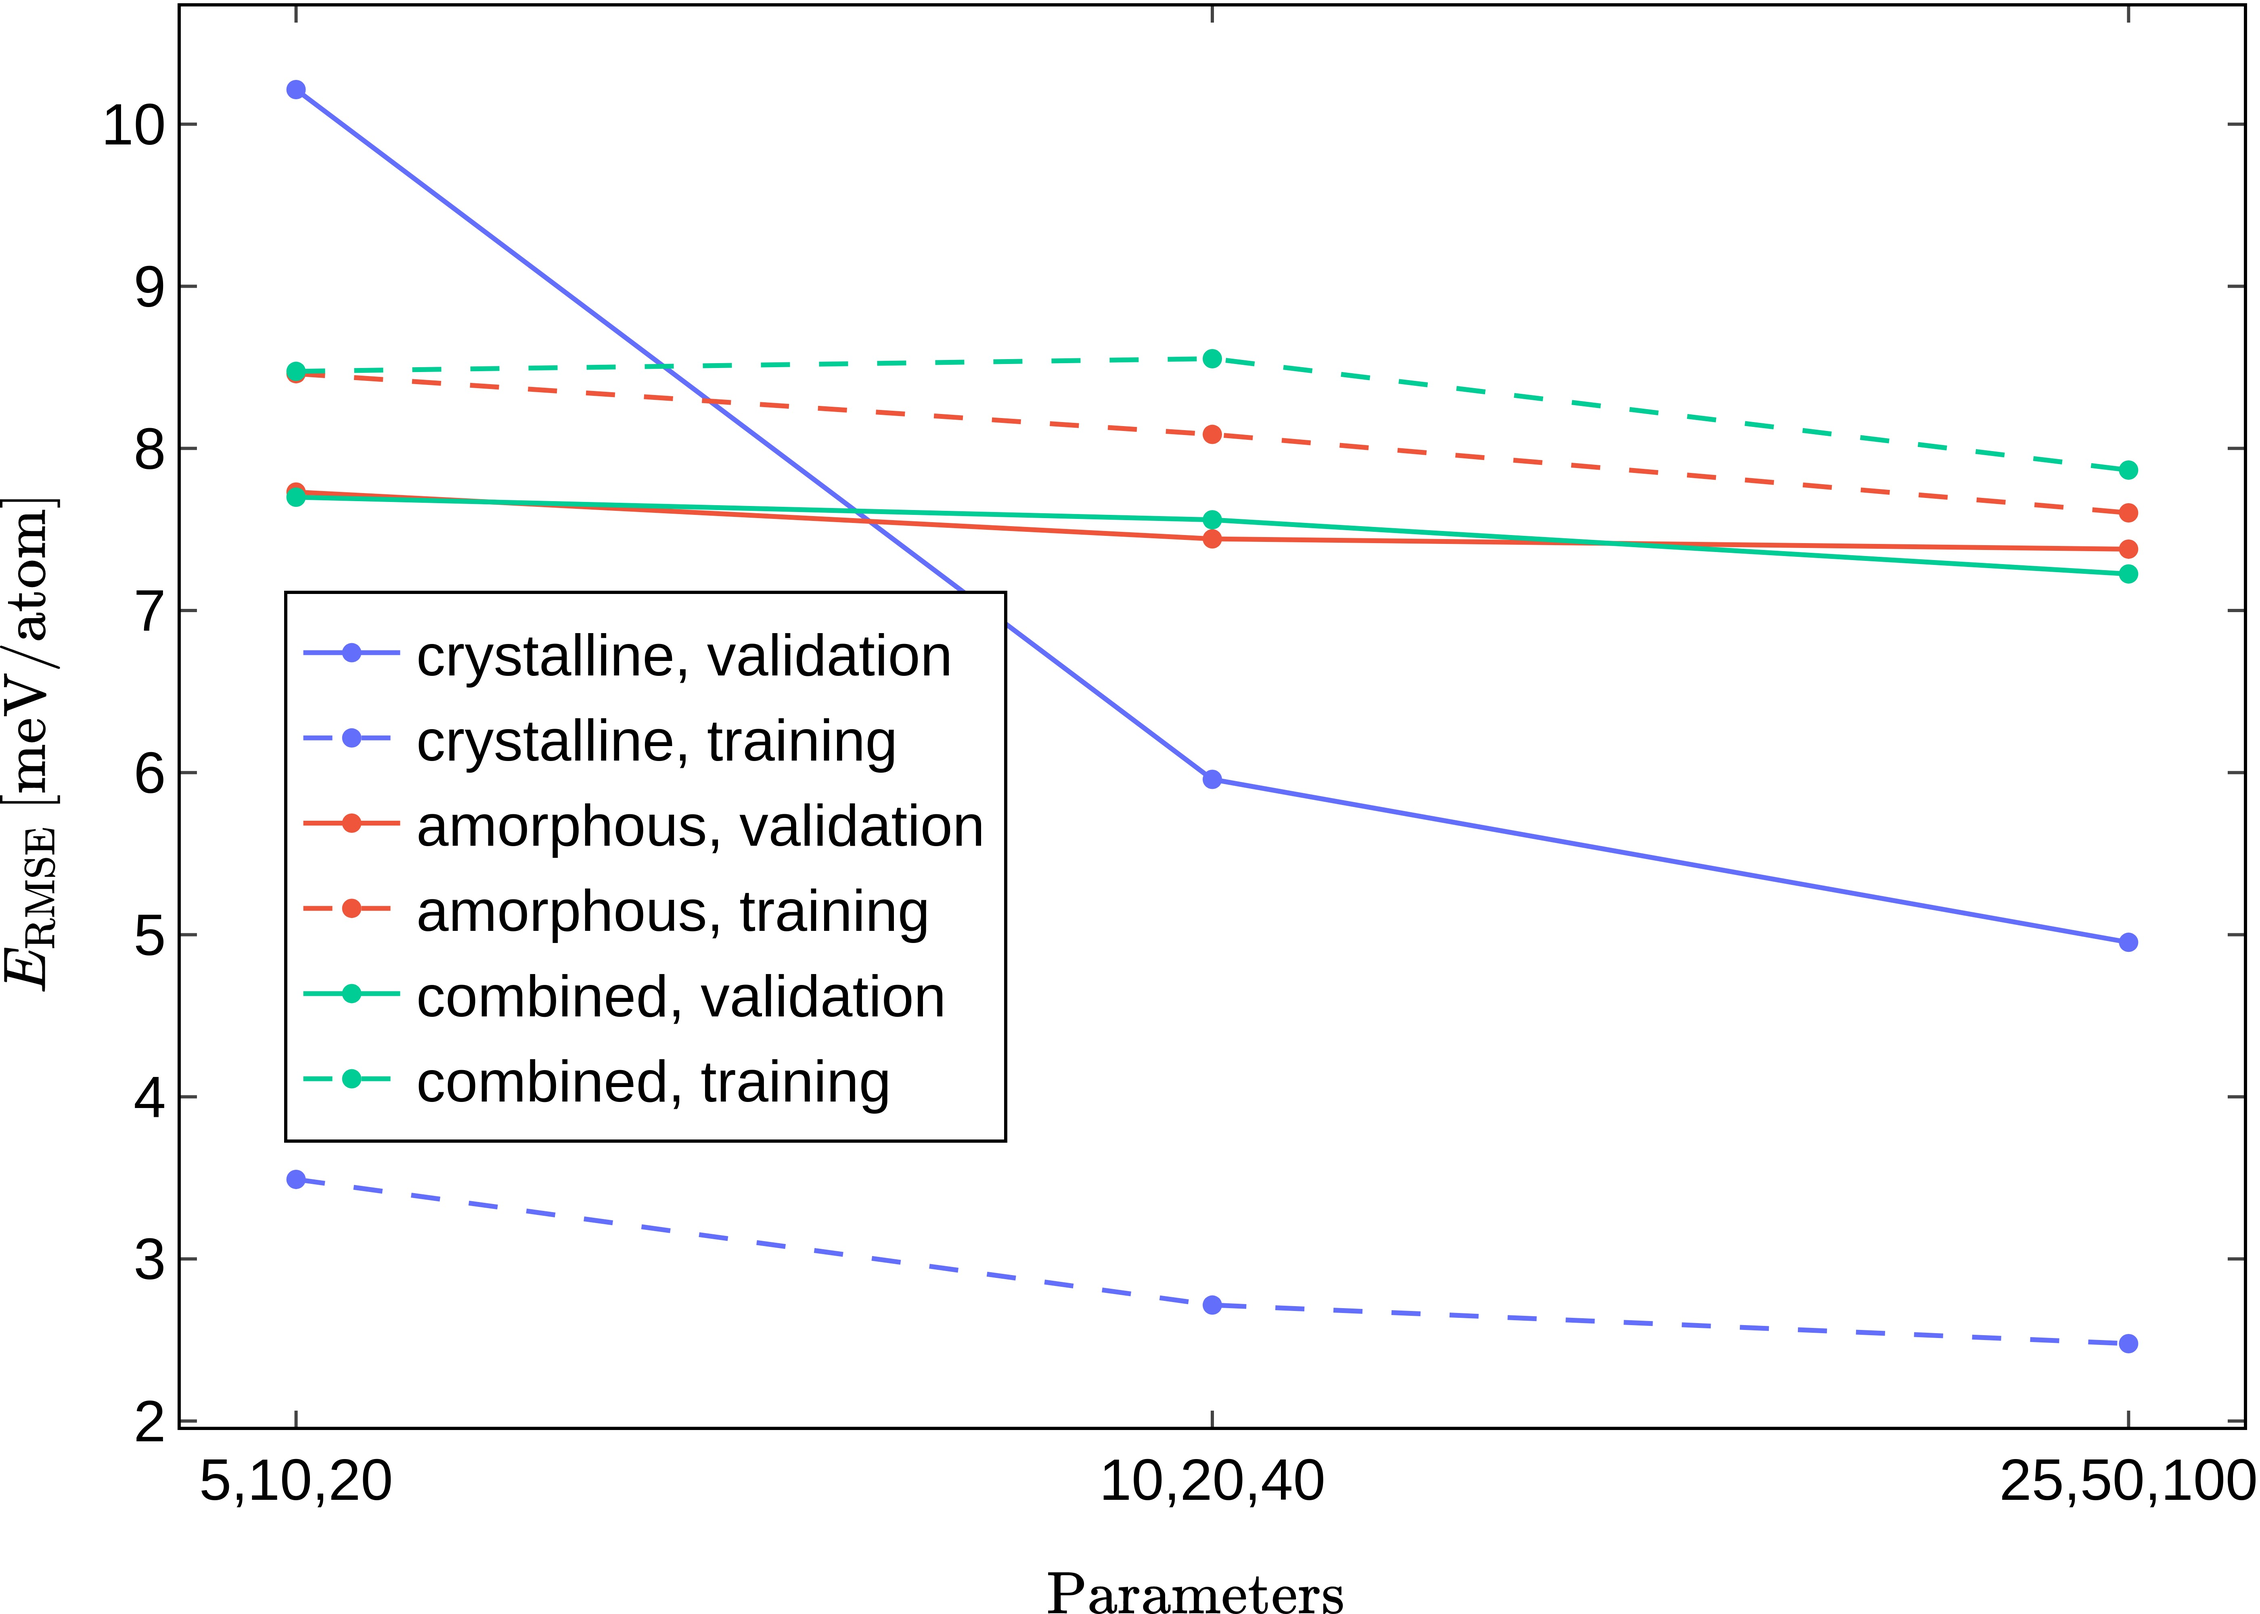
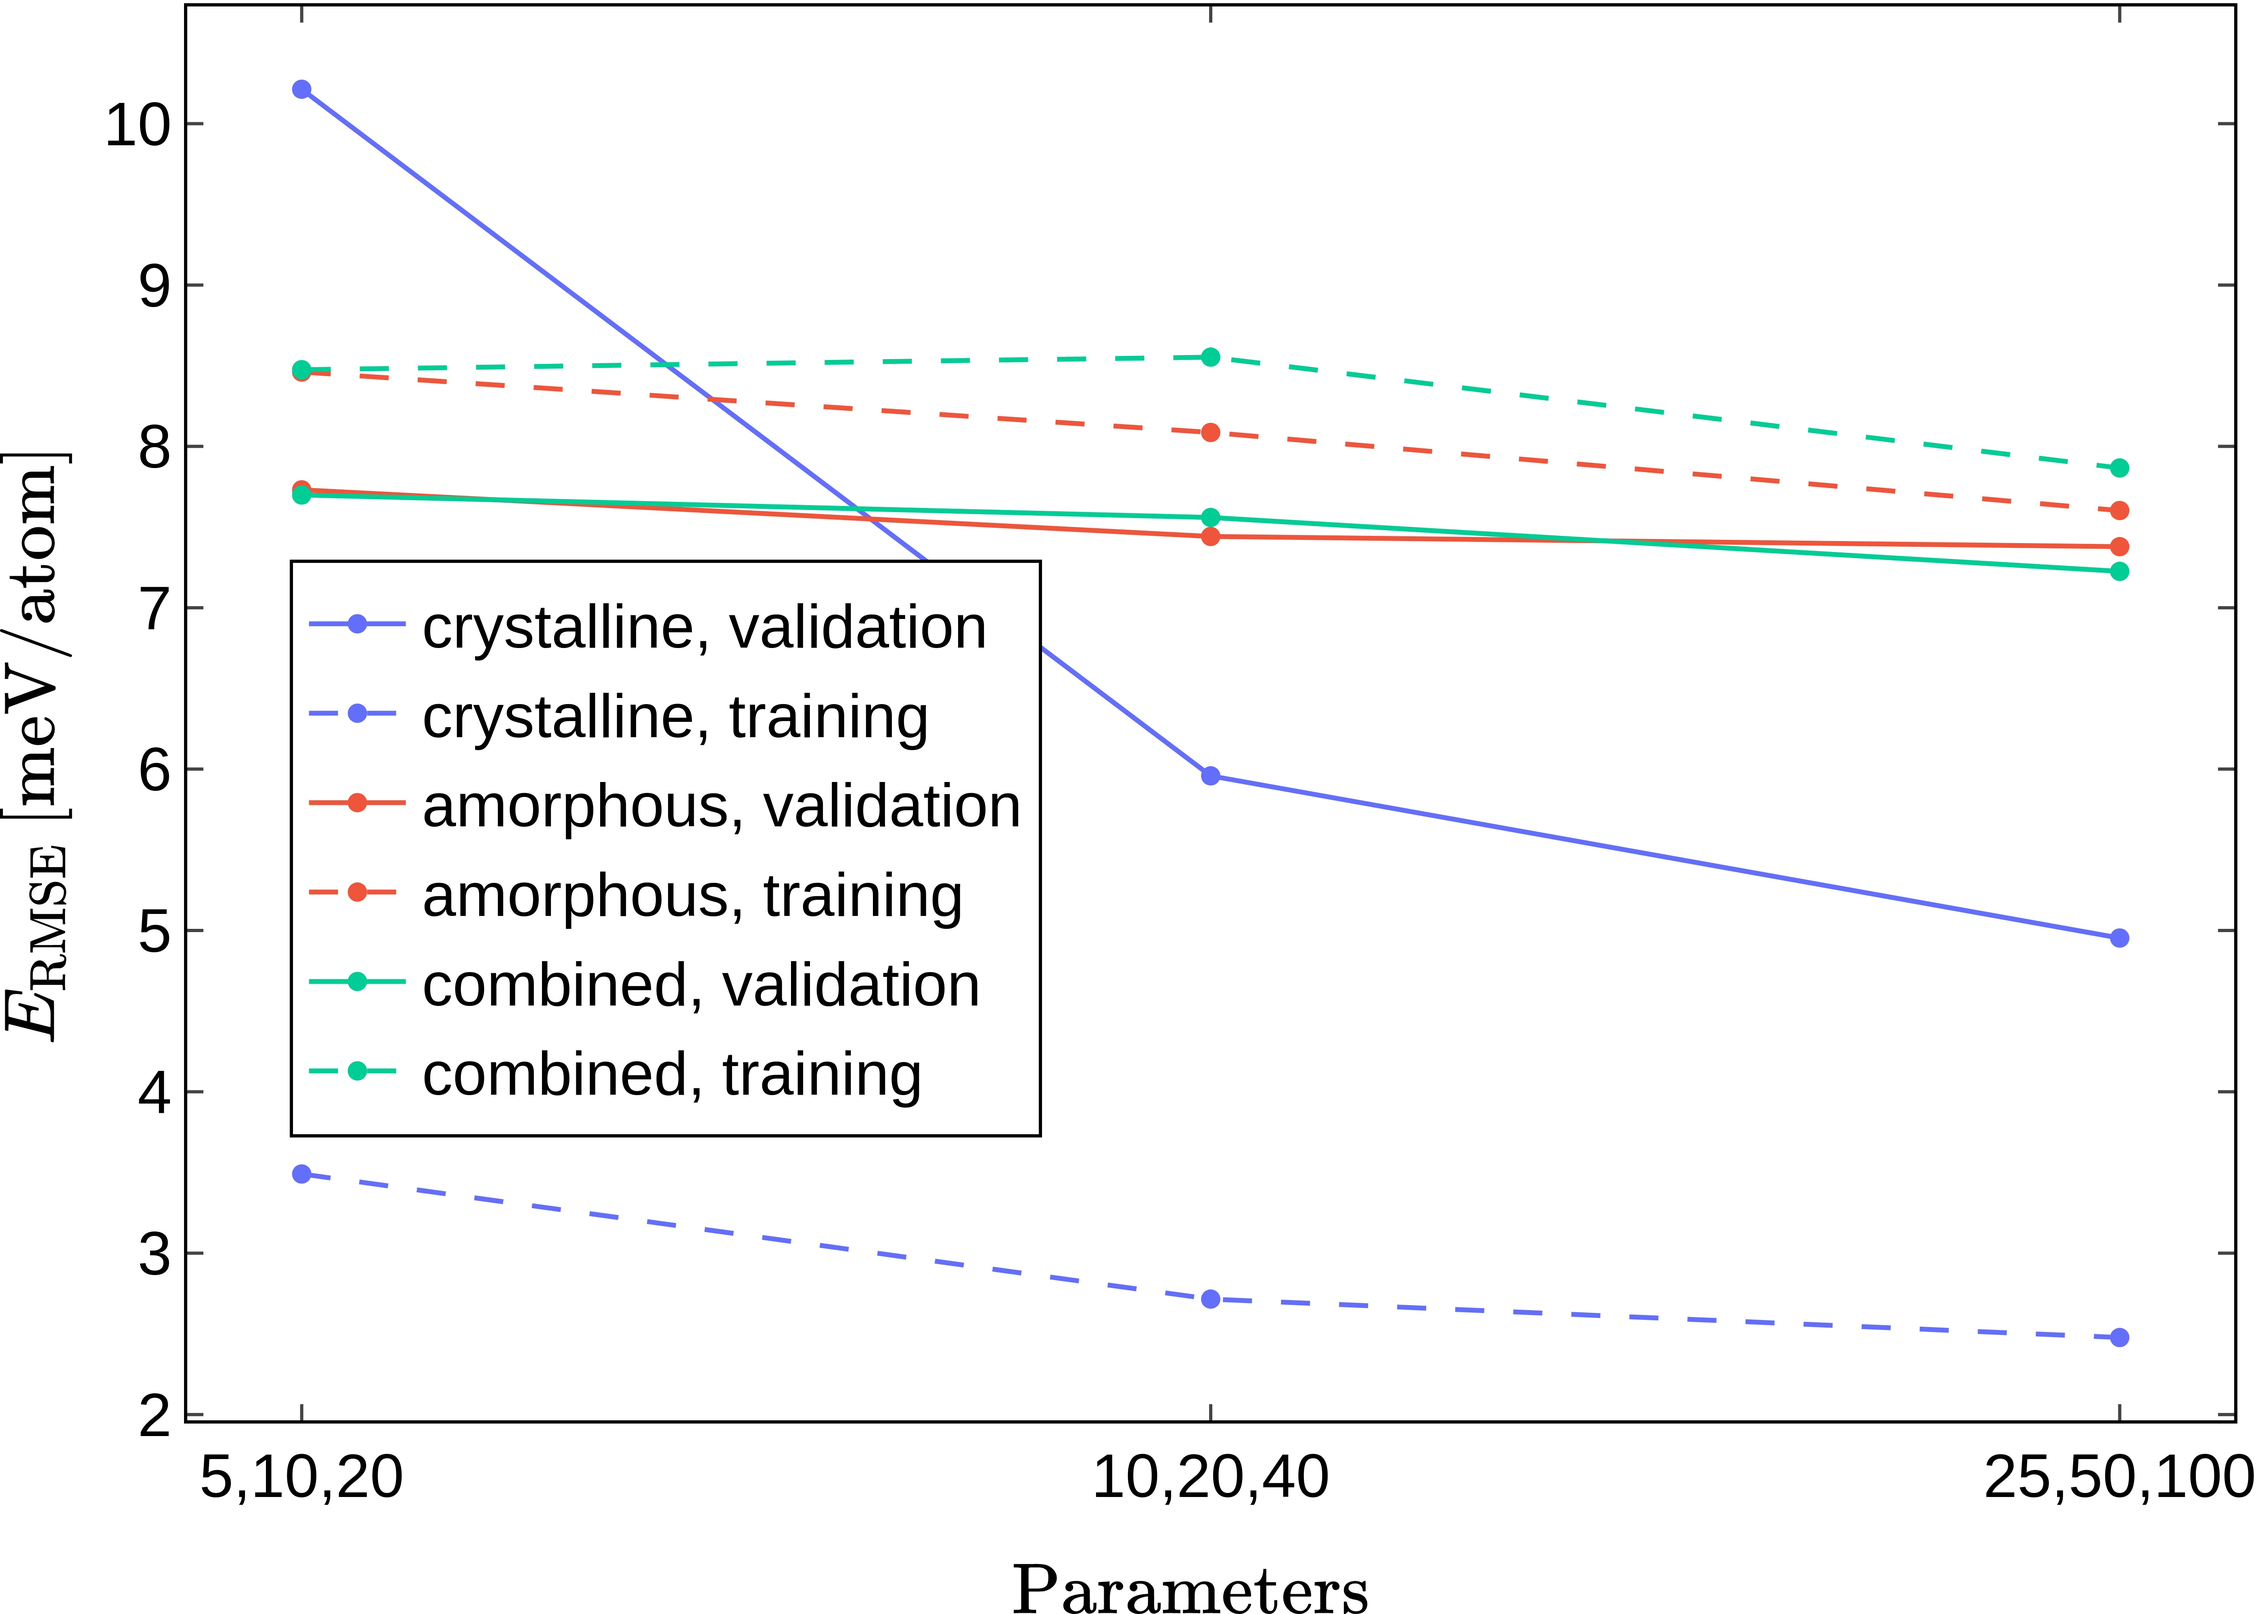
fix: latex label sizes

diff --git a/ml4md/plot_error_curves.py b/ml4md/plot_error_curves.py
@@ -103,7 +103,7 @@ def main():
         )
 
         descriptor_energy_figure.update_layout(
-            font_size=18,
+            font_size=19,
             font_color="#000",
             plot_bgcolor="#fff",
             xaxis=dict(
@@ -115,7 +115,7 @@ def main():
                 showline=True
             ),
             yaxis=dict(
-                title="$E_\\text{RMSE} \, [\mathrm{meV}/\mathrm{atom}]$",
+                title="$\large{E_\\text{RMSE} \, [\mathrm{meV}/\mathrm{atom}]}$",
                 showgrid=False,
                 linewidth=1,
                 linecolor="black",
@@ -123,7 +123,7 @@ def main():
                 ticks="inside",
                 showline=True
             ),
-            xaxis_title="$\\text{Parameters}$",
+            xaxis_title="$\large{\\text{Parameters}}$",
             legend=dict(
                 x=.05,
                 y=.2,
@@ -135,7 +135,7 @@ def main():
         )
 
         descriptor_force_figure.update_layout(
-            font_size=18,
+            font_size=19,
             font_color="#000",
             plot_bgcolor="#fff",
             xaxis=dict(
@@ -147,7 +147,7 @@ def main():
                 showline=True
             ),
             yaxis=dict(
-                title="$F_\\text{RMSE} \, [\mathrm{eV}/\mathrm{Å}]$",
+                title="$\large{F_\\text{RMSE} \, [\mathrm{eV}/\mathrm{Å}]}$",
                 showgrid=False,
                 linewidth=1,
                 linecolor="black",
@@ -155,7 +155,7 @@ def main():
                 ticks="inside",
                 showline=True
             ),
-            xaxis_title="$\\text{Parameters}$",
+            xaxis_title="$\large{\\text{Parameters}}$",
             legend=dict(
                 x=.6,
                 y=.5,
@@ -250,7 +250,7 @@ def main():
         )
 
         fitting_energy_figure.update_layout(
-            font_size=18,
+            font_size=19,
             font_color="#000",
             plot_bgcolor="#fff",
             xaxis=dict(
@@ -262,7 +262,7 @@ def main():
                 showline=True
             ),
             yaxis=dict(
-                title="$E_\\text{RMSE} \, [\mathrm{meV}/\mathrm{atom}]$",
+                title="$\large{E_\\text{RMSE} \, [\mathrm{meV}/\mathrm{atom}]}$",
                 showgrid=False,
                 linewidth=1,
                 linecolor="black",
@@ -270,7 +270,7 @@ def main():
                 ticks="inside",
                 showline=True
             ),
-            xaxis_title="$\\text{Parameters}$",
+            xaxis_title="$\large{\\text{Parameters}}$",
             legend=dict(
                 x=.02,
                 y=.98,
@@ -282,7 +282,7 @@ def main():
         )
 
         fitting_force_figure.update_layout(
-            font_size=18,
+            font_size=19,
             font_color="#000",
             plot_bgcolor="#fff",
             xaxis=dict(
@@ -294,7 +294,7 @@ def main():
                 showline=True
             ),
             yaxis=dict(
-                title="$F_\\text{RMSE} \, [\mathrm{eV}/\mathrm{Å}]$",
+                title="$\large{F_\\text{RMSE} \, [\mathrm{eV}/\mathrm{Å}]}$",
                 showgrid=False,
                 linewidth=1,
                 linecolor="black",
@@ -302,7 +302,7 @@ def main():
                 ticks="inside",
                 showline=True
             ),
-            xaxis_title="$\\text{Parameters}$",
+            xaxis_title="$\large{\\text{Parameters}}$",
             legend=dict(
                 x=.65,
                 y=.5,
